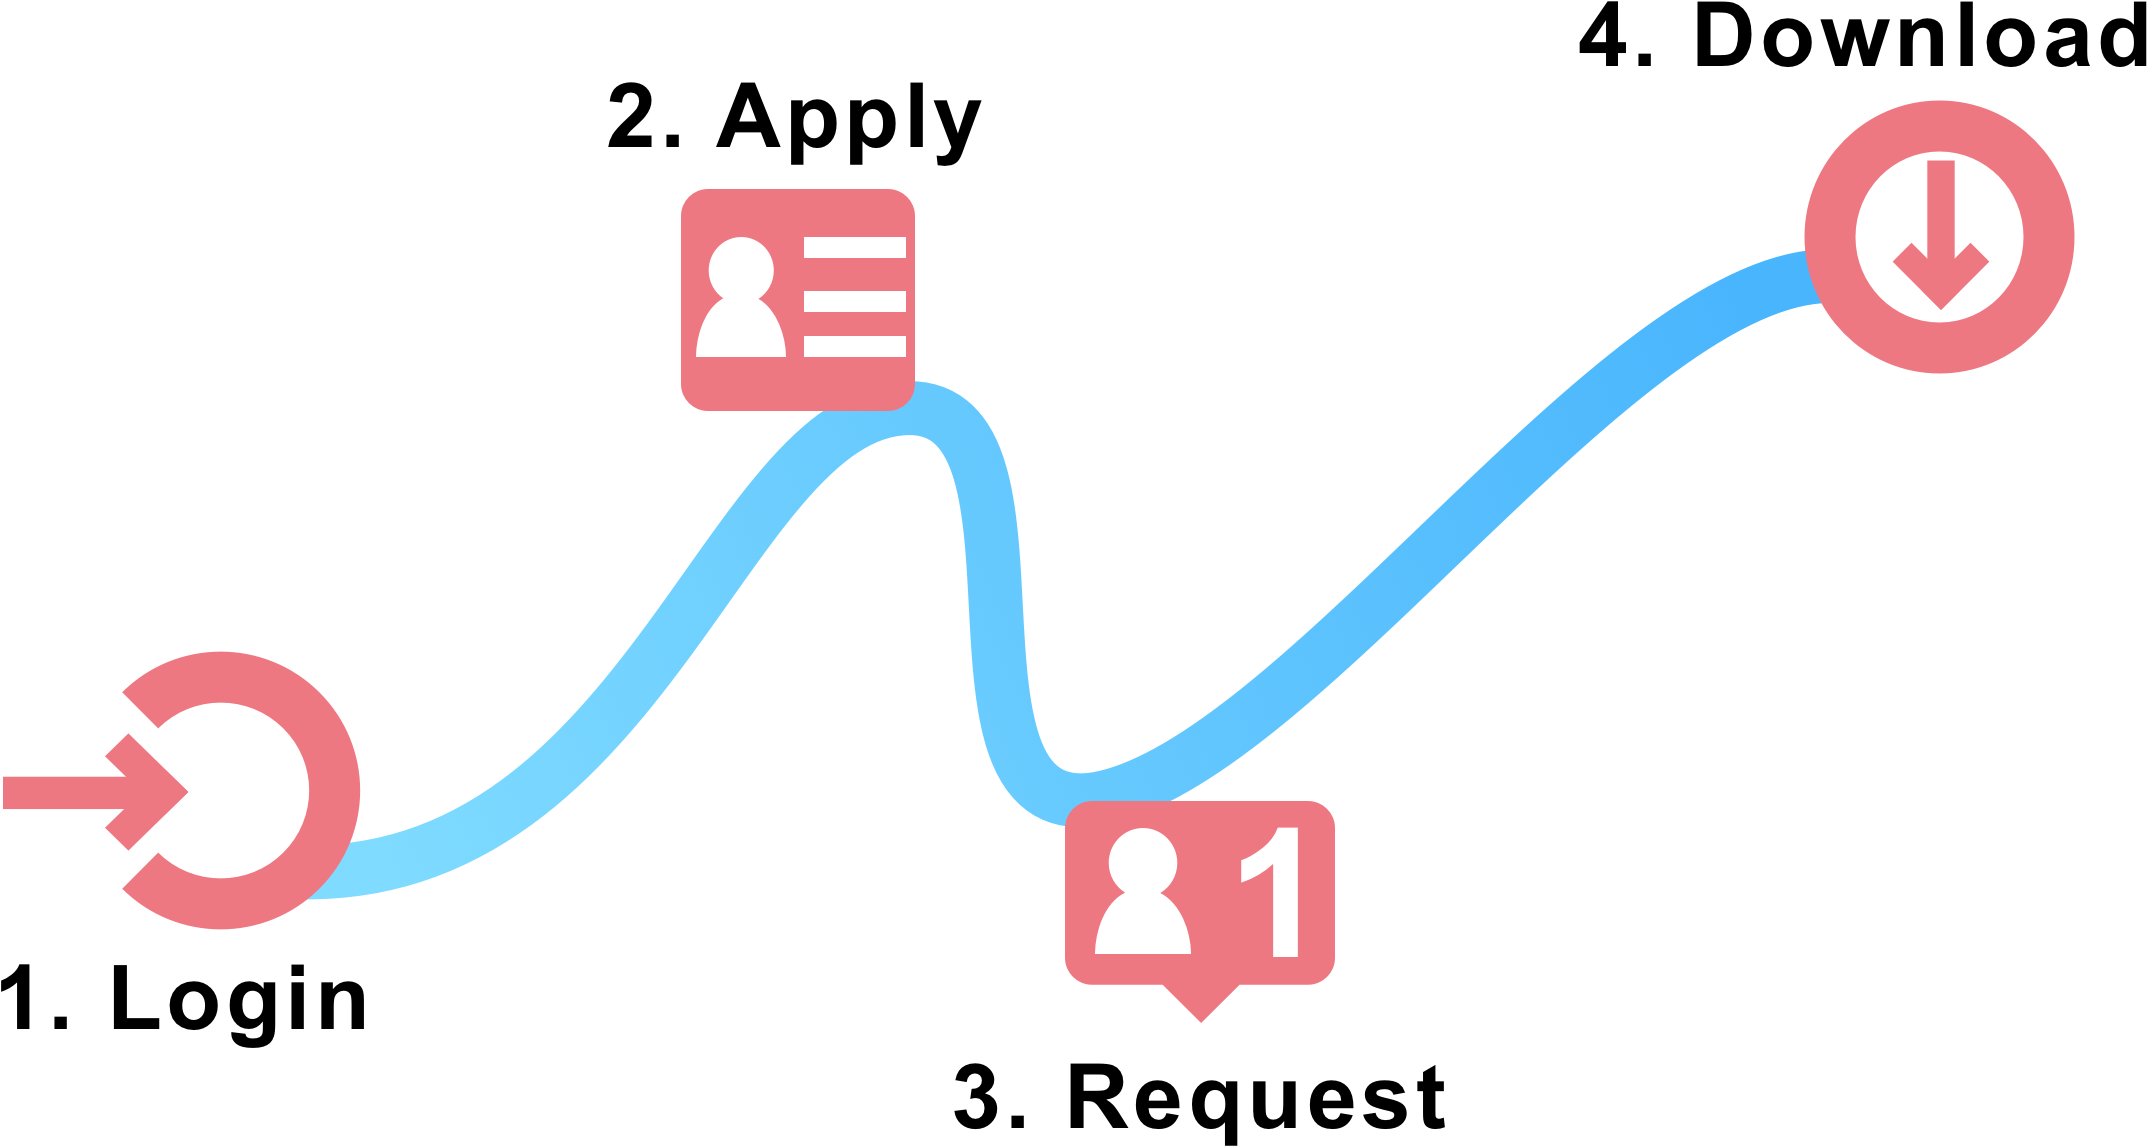
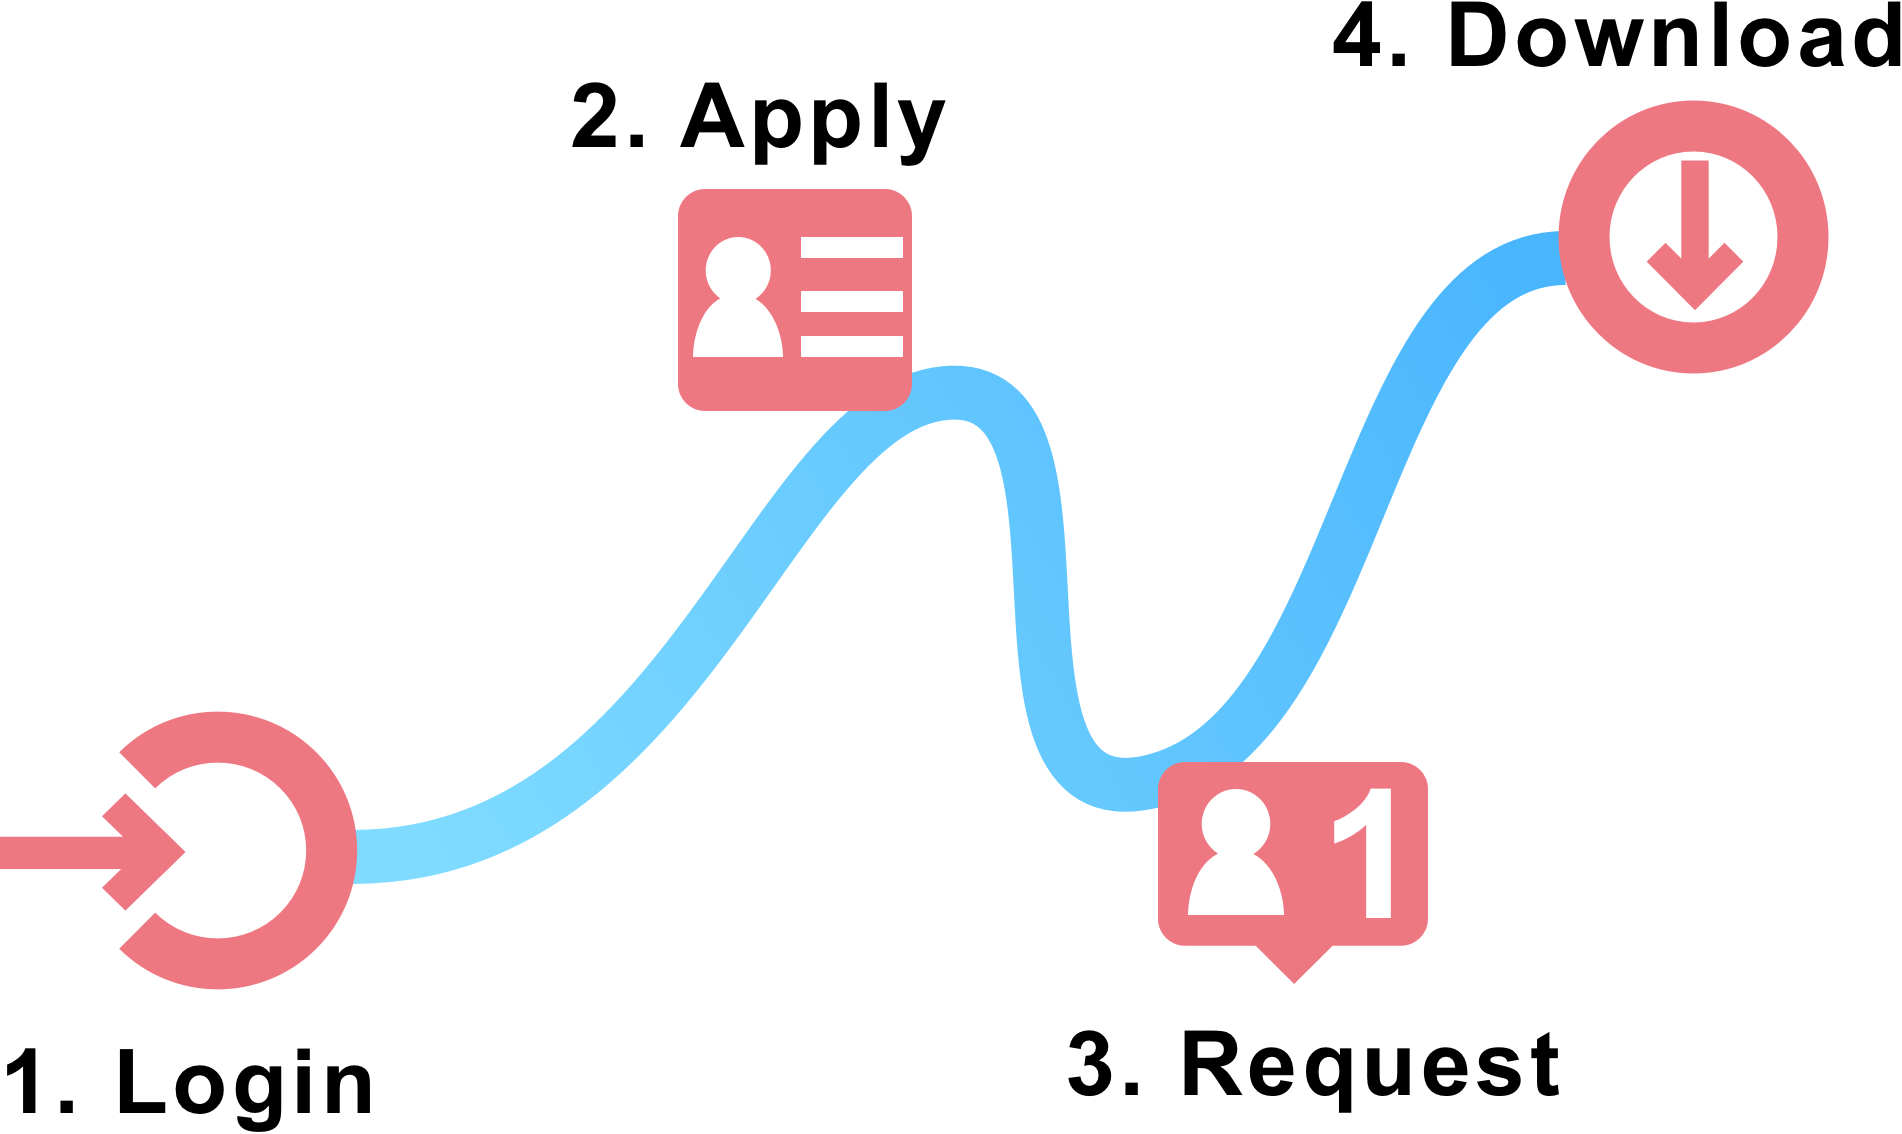
added some animations and adjusted flow chart

diff --git a/app/assets/stylesheets/home.scss b/app/assets/stylesheets/home.scss
@@ -223,7 +223,7 @@
 .bg-image {
   z-index: -1;
   position: absolute;
-  height: 200vh;
+  height: 220vh;
   width: 150vw;
   top: 0;
   right: 0;
